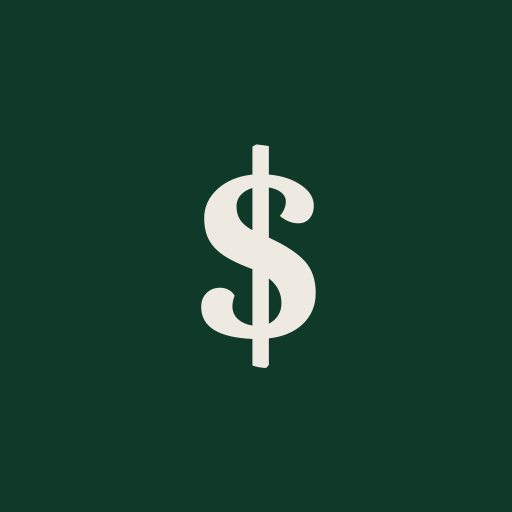
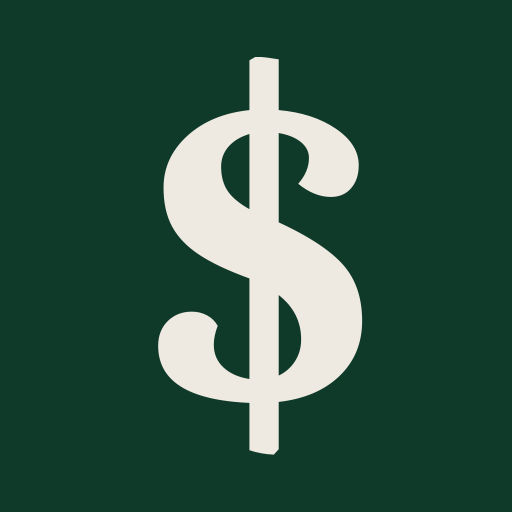
Add files via upload

Changed region(s): [[0.2812, 0.0938, 0.7188, 0.9062]]

diff --git a/index.html b/index.html
@@ -1441,6 +1441,12 @@ body{
       <div class="g-list" style="margin-bottom:12px">
         <div class="g-row" style="align-items:flex-start;padding-top:14px;padding-bottom:14px">
           <div class="g-icon" style="background:var(--fill);margin-top:2px">&#x1F4DD;</div>
+          <div style="width:100%">
+            <div style="font-size:11px;font-weight:600;color:var(--t3);text-transform:uppercase;letter-spacing:0.5px;margin-bottom:9px">Colour</div>
+            <div id="cp-colour-swatches" style="display:flex;gap:9px;flex-wrap:wrap"></div>
+          </div>
+        </div>
+        <div class="g-row">
           <textarea class="g-input" id="cp-notes" placeholder="Any notes about this client&#x2026;" rows="2" style="resize:none;line-height:1.45;padding-top:1px"></textarea>
         </div>
       </div>
@@ -2606,10 +2612,18 @@ function renderIncomeTab(){
 }
 
 /* ── Client colour helper ── */
+/* Client colours — one source of truth, used by the donut, the client
+   cards and anywhere else a client is represented by colour. A saved
+   override wins; otherwise the name is hashed so the colour is stable
+   regardless of sort order or how many clients exist. */
+var CLIENT_PALETTE=['#007AFF','#34C759','#FF9500','#AF52DE','#FF3B30','#5AC8FA','#FF2D55','#30B0C7','#32ADE6','#64D2FF','#BF5AF2','#FF6961','#FFD60A','#30D158'];
+
 function clientColour(name){
-  var colours=['#007AFF','#34C759','#FF9500','#AF52DE','#FF3B30','#5AC8FA','#FF2D55','#30B0C7','#32ADE6','#64D2FF','#BF5AF2','#FF6961','#FFD60A','#30D158'];
+  if(!name) return CLIENT_PALETTE[0];
+  var p=getClientProfile(name);
+  if(p&&p.colour) return p.colour;
   var hash=0; for(var i=0;i<name.length;i++) hash=(hash*31+name.charCodeAt(i))&0xFFFF;
-  return colours[hash%colours.length];
+  return CLIENT_PALETTE[hash%CLIENT_PALETTE.length];
 }
 
 function clientId(name){
@@ -2817,9 +2831,12 @@ function drawChart(fyInvoices){
   var isDark=window.matchMedia&&window.matchMedia('(prefers-color-scheme:dark)').matches;
   var t3c=isDark?'rgba(255,255,255,0.35)':'rgba(0,0,0,0.35)';
   var sepc=isDark?'rgba(255,255,255,0.08)':'rgba(0,0,0,0.07)';
-  var greenC=isDark?'#30D158':'#0F9D4F';
-  var blueBar=isDark?'rgba(10,132,255,0.30)':'rgba(0,122,255,0.18)';
-  var blueLine=isDark?'#0A84FF':'#007AFF';
+  // Chart colours follow the app-wide system: gross is neutral, net is green.
+  // The trend line traces the received series, so it takes a darker green
+  // rather than an unrelated blue.
+  var netC=isDark?'#30D158':'#0F9D4F';
+  var grossBar=isDark?'rgba(255,255,255,0.16)':'rgba(10,10,10,0.13)';
+  var trendC=isDark?'#5BE07F':'#053D1F';
   var nowMonth=new Date().getMonth();
   var curIdx=(nowMonth-3+12)%12;
 
@@ -2839,8 +2856,8 @@ function drawChart(fyInvoices){
     var bx=pL+i*bw+bw*0.10;
     var ih=(invoiced[i]/niceMax)*cH;
     var rh=(received[i]/niceMax)*cH;
-    if(ih>0) html+='<rect x="'+bx+'" y="'+(pT+cH-ih)+'" width="'+barW+'" height="'+ih+'" fill="'+blueBar+'" rx="2"/>';
-    if(rh>0) html+='<rect x="'+(bx+barW+gap)+'" y="'+(pT+cH-rh)+'" width="'+barW+'" height="'+rh+'" fill="'+greenC+'" rx="2"/>';
+    if(ih>0) html+='<rect x="'+bx+'" y="'+(pT+cH-ih)+'" width="'+barW+'" height="'+ih+'" fill="'+grossBar+'" rx="2"/>';
+    if(rh>0) html+='<rect x="'+(bx+barW+gap)+'" y="'+(pT+cH-rh)+'" width="'+barW+'" height="'+rh+'" fill="'+netC+'" rx="2"/>';
     var tx=pL+i*bw+bw*0.5, ty=yp(received[i]);
     trendPts.push(tx+','+ty);
     // X label
@@ -2851,23 +2868,23 @@ function drawChart(fyInvoices){
 
   // Trend line
   if(trendPts.length>1){
-    html+='<polyline points="'+trendPts.join(' ')+'" fill="none" stroke="'+blueLine+'" stroke-width="1.5" stroke-linejoin="round" stroke-linecap="round"/>';
+    html+='<polyline points="'+trendPts.join(' ')+'" fill="none" stroke="'+trendC+'" stroke-width="1.5" stroke-linejoin="round" stroke-linecap="round"/>';
     trendPts.forEach(function(pt,i){
       if(received[i]>0||invoiced[i]>0){
         var parts=pt.split(',');
-        html+='<circle cx="'+parts[0]+'" cy="'+parts[1]+'" r="2.5" fill="'+blueLine+'"/>';
+        html+='<circle cx="'+parts[0]+'" cy="'+parts[1]+'" r="2.5" fill="'+trendC+'"/>';
       }
     });
   }
 
   // Legend
   var ly2=H-4;
-  html+='<rect x="'+pL+'" y="'+(ly2-7)+'" width="8" height="7" fill="'+blueBar+'" rx="1"/>';
-  html+='<text x="'+(pL+11)+'" y="'+ly2+'" font-size="8" fill="'+t3c+'" font-family="-apple-system,sans-serif">Invoiced</text>';
-  html+='<rect x="'+(pL+58)+'" y="'+(ly2-7)+'" width="8" height="7" fill="'+greenC+'" rx="1"/>';
-  html+='<text x="'+(pL+69)+'" y="'+ly2+'" font-size="8" fill="'+t3c+'" font-family="-apple-system,sans-serif">Received</text>';
-  html+='<line x1="'+(pL+118)+'" y1="'+(ly2-3)+'" x2="'+(pL+128)+'" y2="'+(ly2-3)+'" stroke="'+blueLine+'" stroke-width="1.5"/>';
-  html+='<text x="'+(pL+131)+'" y="'+ly2+'" font-size="8" fill="'+t3c+'" font-family="-apple-system,sans-serif">Trend</text>';
+  html+='<rect x="'+pL+'" y="'+(ly2-7)+'" width="8" height="7" fill="'+grossBar+'" rx="1"/>';
+  html+='<text x="'+(pL+11)+'" y="'+ly2+'" font-size="8" fill="'+t3c+'" font-family="-apple-system,sans-serif">Gross</text>';
+  html+='<rect x="'+(pL+44)+'" y="'+(ly2-7)+'" width="8" height="7" fill="'+netC+'" rx="1"/>';
+  html+='<text x="'+(pL+55)+'" y="'+ly2+'" font-size="8" fill="'+t3c+'" font-family="-apple-system,sans-serif">Net</text>';
+  html+='<line x1="'+(pL+88)+'" y1="'+(ly2-3)+'" x2="'+(pL+98)+'" y2="'+(ly2-3)+'" stroke="'+trendC+'" stroke-width="1.5"/>';
+  html+='<text x="'+(pL+101)+'" y="'+ly2+'" font-size="8" fill="'+t3c+'" font-family="-apple-system,sans-serif">Trend</text>';
 
   svg.innerHTML=html;
 
@@ -2893,8 +2910,8 @@ function drawChart(fyInvoices){
     if(col<0||col>11){tooltipEl.style.opacity='0';return;}
     var inv=received[col], inv2=invoiced[col];
     if(inv2===0&&inv===0){tooltipEl.style.opacity='0';return;}
-    tooltipEl.textContent=months[col]+': '+fmt(inv)+' received';
-    if(inv2>0&&inv2!==inv) tooltipEl.textContent+=', '+fmt(inv2)+' invoiced';
+    tooltipEl.textContent=months[col]+': '+fmt(inv)+' net';
+    if(inv2>0&&inv2!==inv) tooltipEl.textContent+=' \u00b7 '+fmt(inv2)+' gross';
     var tipX=rect.left+((pL+(col+0.5)*cW/12)/W)*svgW;
     var tipY=rect.top-8;
     tooltipEl.style.left=tipX+'px';
@@ -5245,13 +5262,14 @@ function renderOverviewExtras(fyInvoices){
   });
   var sorted=Object.entries(clients).sort(function(a,b){return b[1]-a[1];});
   var total=sorted.reduce(function(s,c){return s+c[1];},0);
-  var colours=['#007AFF','#34C759','#FF9500','#AF52DE','#FF3B30','#5AC8FA','#FF2D55','#30B0C7','#32ADE6','#64D2FF','#BF5AF2','#FF6961','#FFD60A','#30D158'];
+  // Colours come from clientColour() so a client keeps the same colour here
+  // as on the Clients tab, regardless of who earned the most this period.
 
   // Build SVG donut — centred, larger
   var size=180,cx=90,cy2=90,outerR=82,innerR=62,startAngle=-Math.PI/2;
   var slices='',legend='';
   sorted.forEach(function(pair,i){
-    var col=colours[i%colours.length];
+    var col=clientColour(pair[0]);
     var pct=pair[1]/total;
     var angle=pct*Math.PI*2;
     var endAngle=startAngle+angle;
@@ -5361,6 +5379,8 @@ function openClientProfile(name, prefill){
   var notes=(existing&&existing.notes)||'';
   if(!existing&&scan&&scan.reference&&!notes) notes='Ref: '+scan.reference;
   $el('cp-notes').value=notes;
+  _cpColour=(existing&&existing.colour)||null;
+  renderColourSwatches();
   $el('cp-delete-btn').style.display=existing?'block':'none';
   // Show a hint if pre-filled from scan
   var hint='';
@@ -5370,6 +5390,36 @@ function openClientProfile(name, prefill){
   var hintEl=document.getElementById('cp-scan-hint');
   if(hintEl){hintEl.textContent=hint;hintEl.style.display=hint?'block':'none';}
   openModal('modal-client-profile');
+}
+
+
+/* ── Client colour picker ── */
+var _cpColour = null;   // null = use the automatic hashed colour
+
+function renderColourSwatches(){
+  var wrap = document.getElementById('cp-colour-swatches');
+  if(!wrap) return;
+  var html = '';
+
+  // "Auto" — clears any override and falls back to the hashed colour
+  var autoSel = _cpColour === null;
+  html += '<button type="button" onclick="pickClientColour(null)" title="Automatic" '
+       +  'style="width:30px;height:30px;border-radius:50%;cursor:pointer;padding:0;'
+       +  'background:linear-gradient(135deg,#007AFF,#34C759,#FF9500,#FF3B30);'
+       +  'border:' + (autoSel ? '3px solid var(--t1)' : '1px solid var(--sep)') + '"></button>';
+
+  CLIENT_PALETTE.forEach(function(col){
+    var sel = _cpColour === col;
+    html += '<button type="button" onclick="pickClientColour(\'' + col + '\')" '
+         +  'style="width:30px;height:30px;border-radius:50%;cursor:pointer;padding:0;background:' + col + ';'
+         +  'border:' + (sel ? '3px solid var(--t1)' : '1px solid rgba(0,0,0,.08)') + '"></button>';
+  });
+  wrap.innerHTML = html;
+}
+
+function pickClientColour(col){
+  _cpColour = col;
+  renderColourSwatches();
 }
 
 function saveClientProfile(){
@@ -5383,12 +5433,14 @@ function saveClientProfile(){
     gst:$el('cp-gst').value,
     terms:parseInt($el('cp-terms').value)||30,
     notes:$el('cp-notes').value.trim()||null,
+    colour:_cpColour||null,
     updatedAt:new Date().toISOString()
   };
   setClientProfile(name, profile);
   window._lastRemittanceScan=null;
   closeModal('modal-client-profile');
   renderClientsTab();
+  if(currentTab==='overview') renderIncomeTab();   // donut picks up the new colour
   showToast('Client saved');
 }
 

diff --git a/sw.js b/sw.js
@@ -1,4 +1,4 @@
-const VERSION = '2.2.0';
+const VERSION = '2.3.0';
 const CACHE = 'income-nz-' + VERSION;
 
 // Files worth pre-caching. index.html is the only one that MUST succeed —
